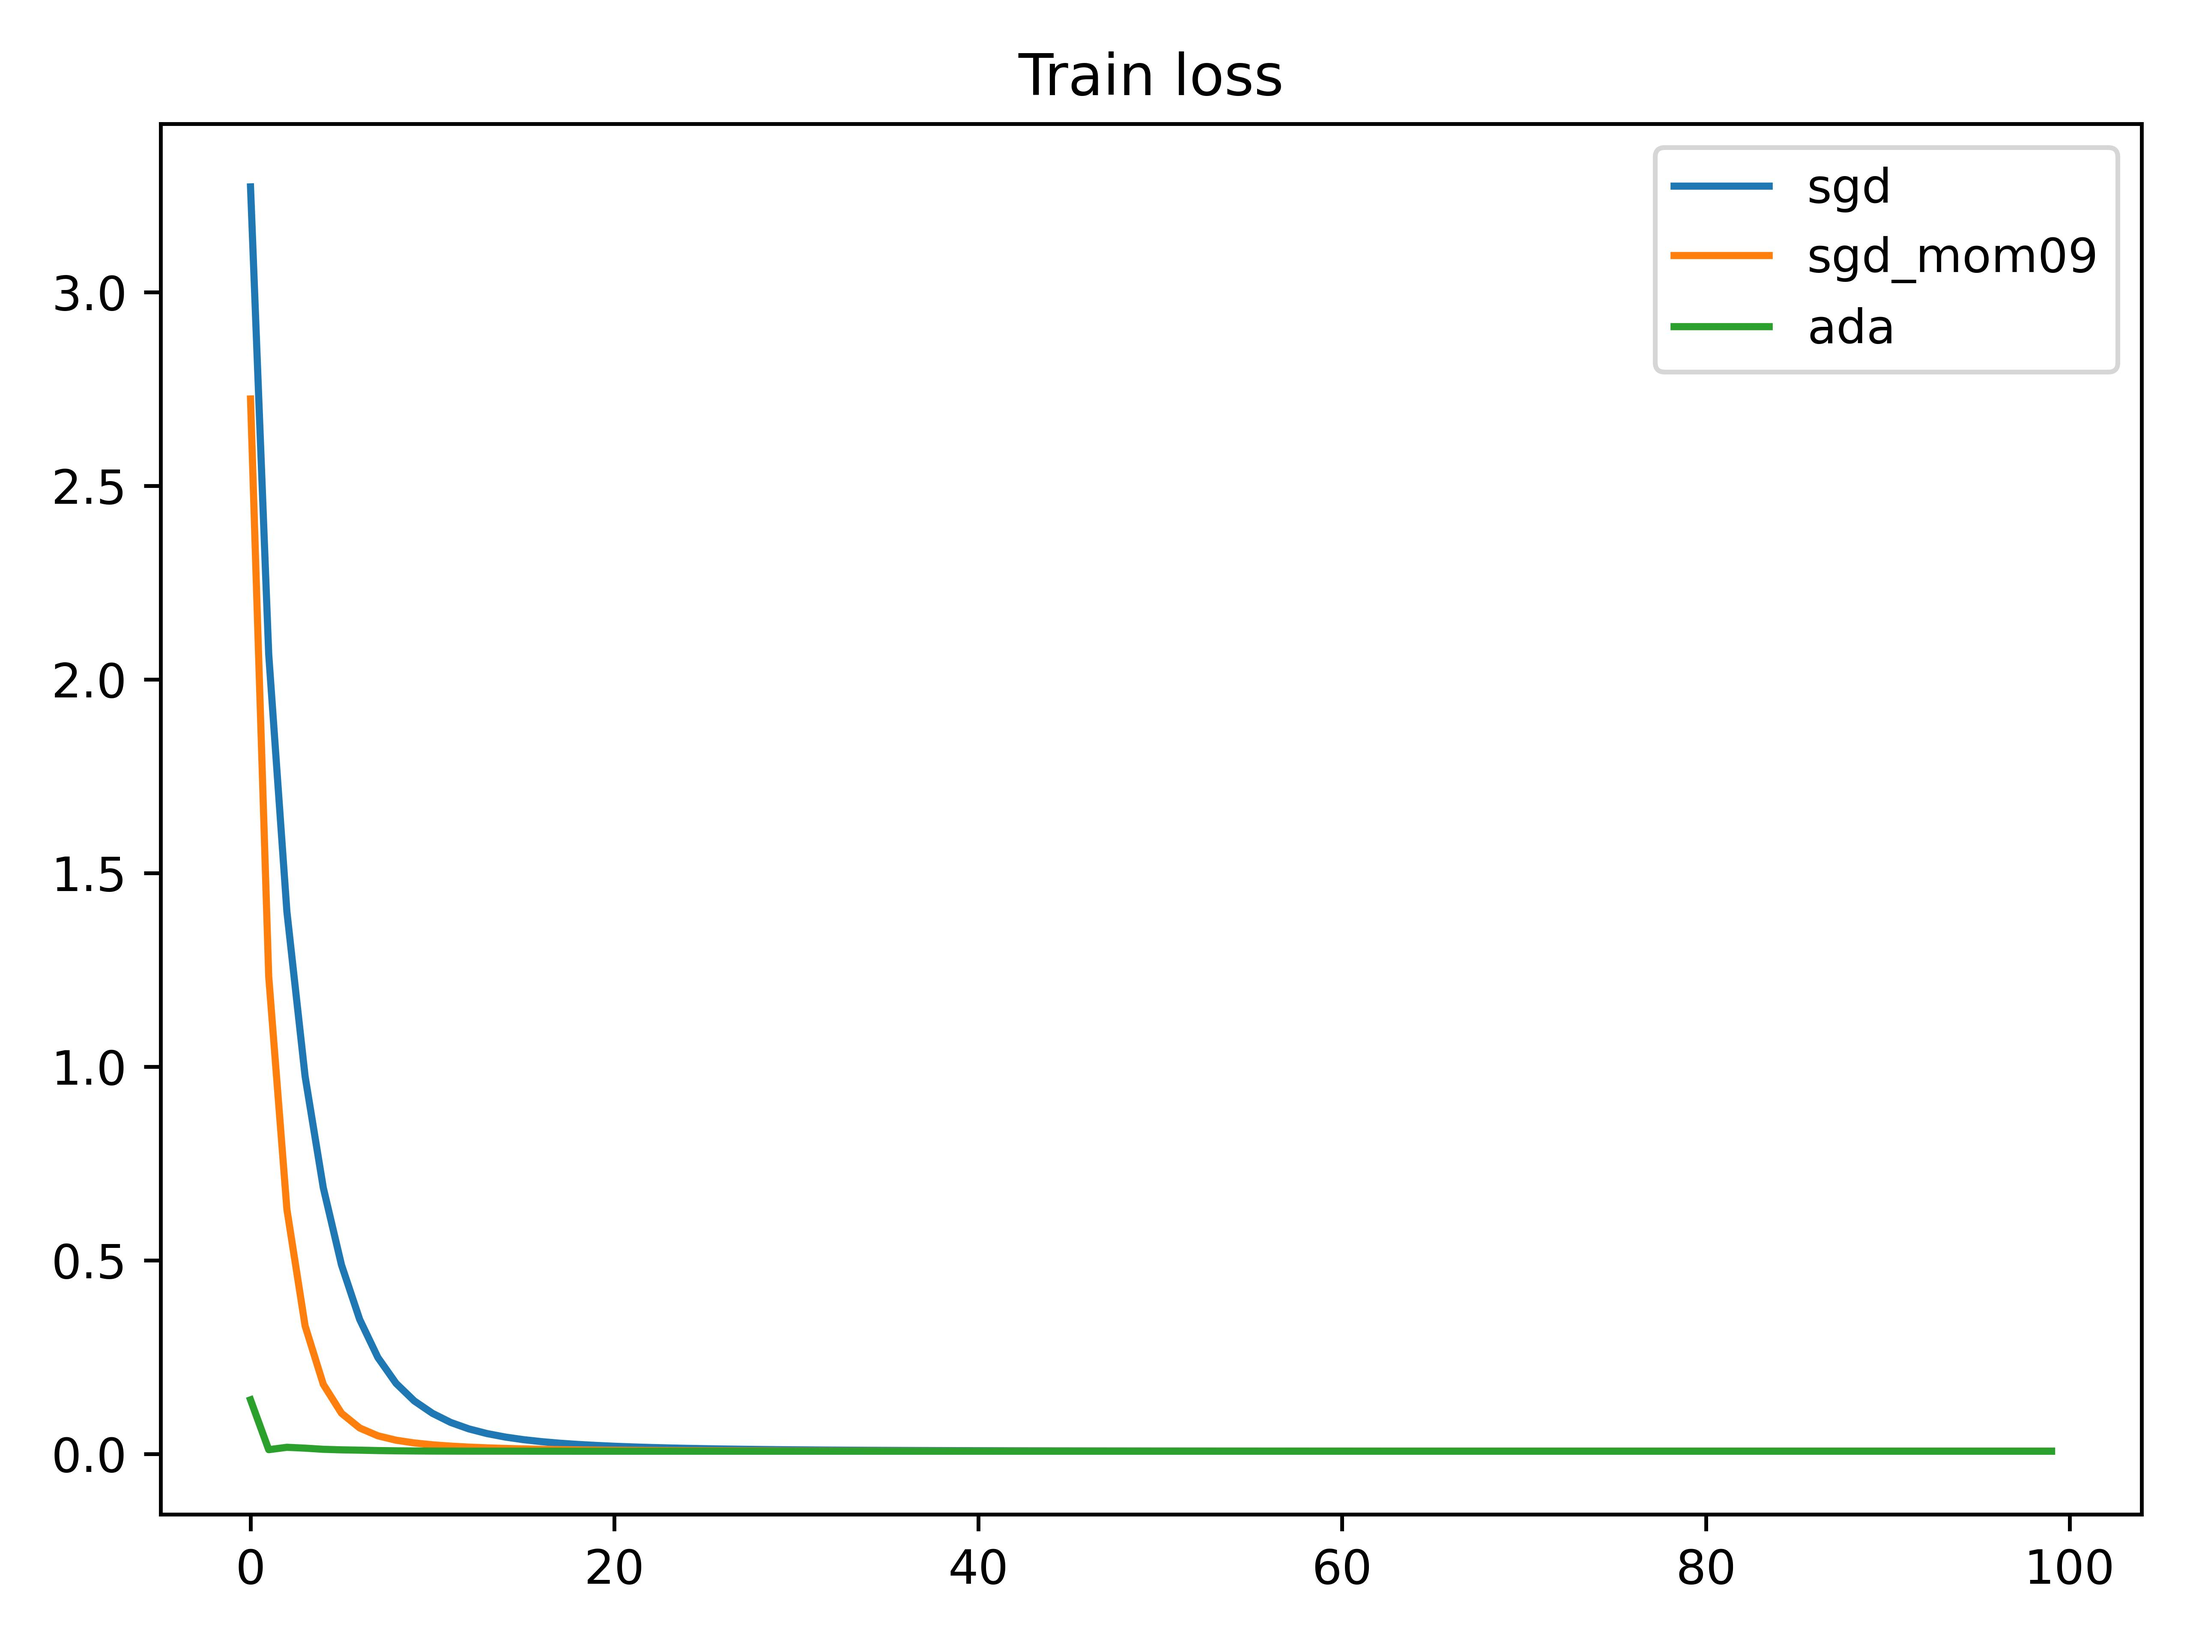
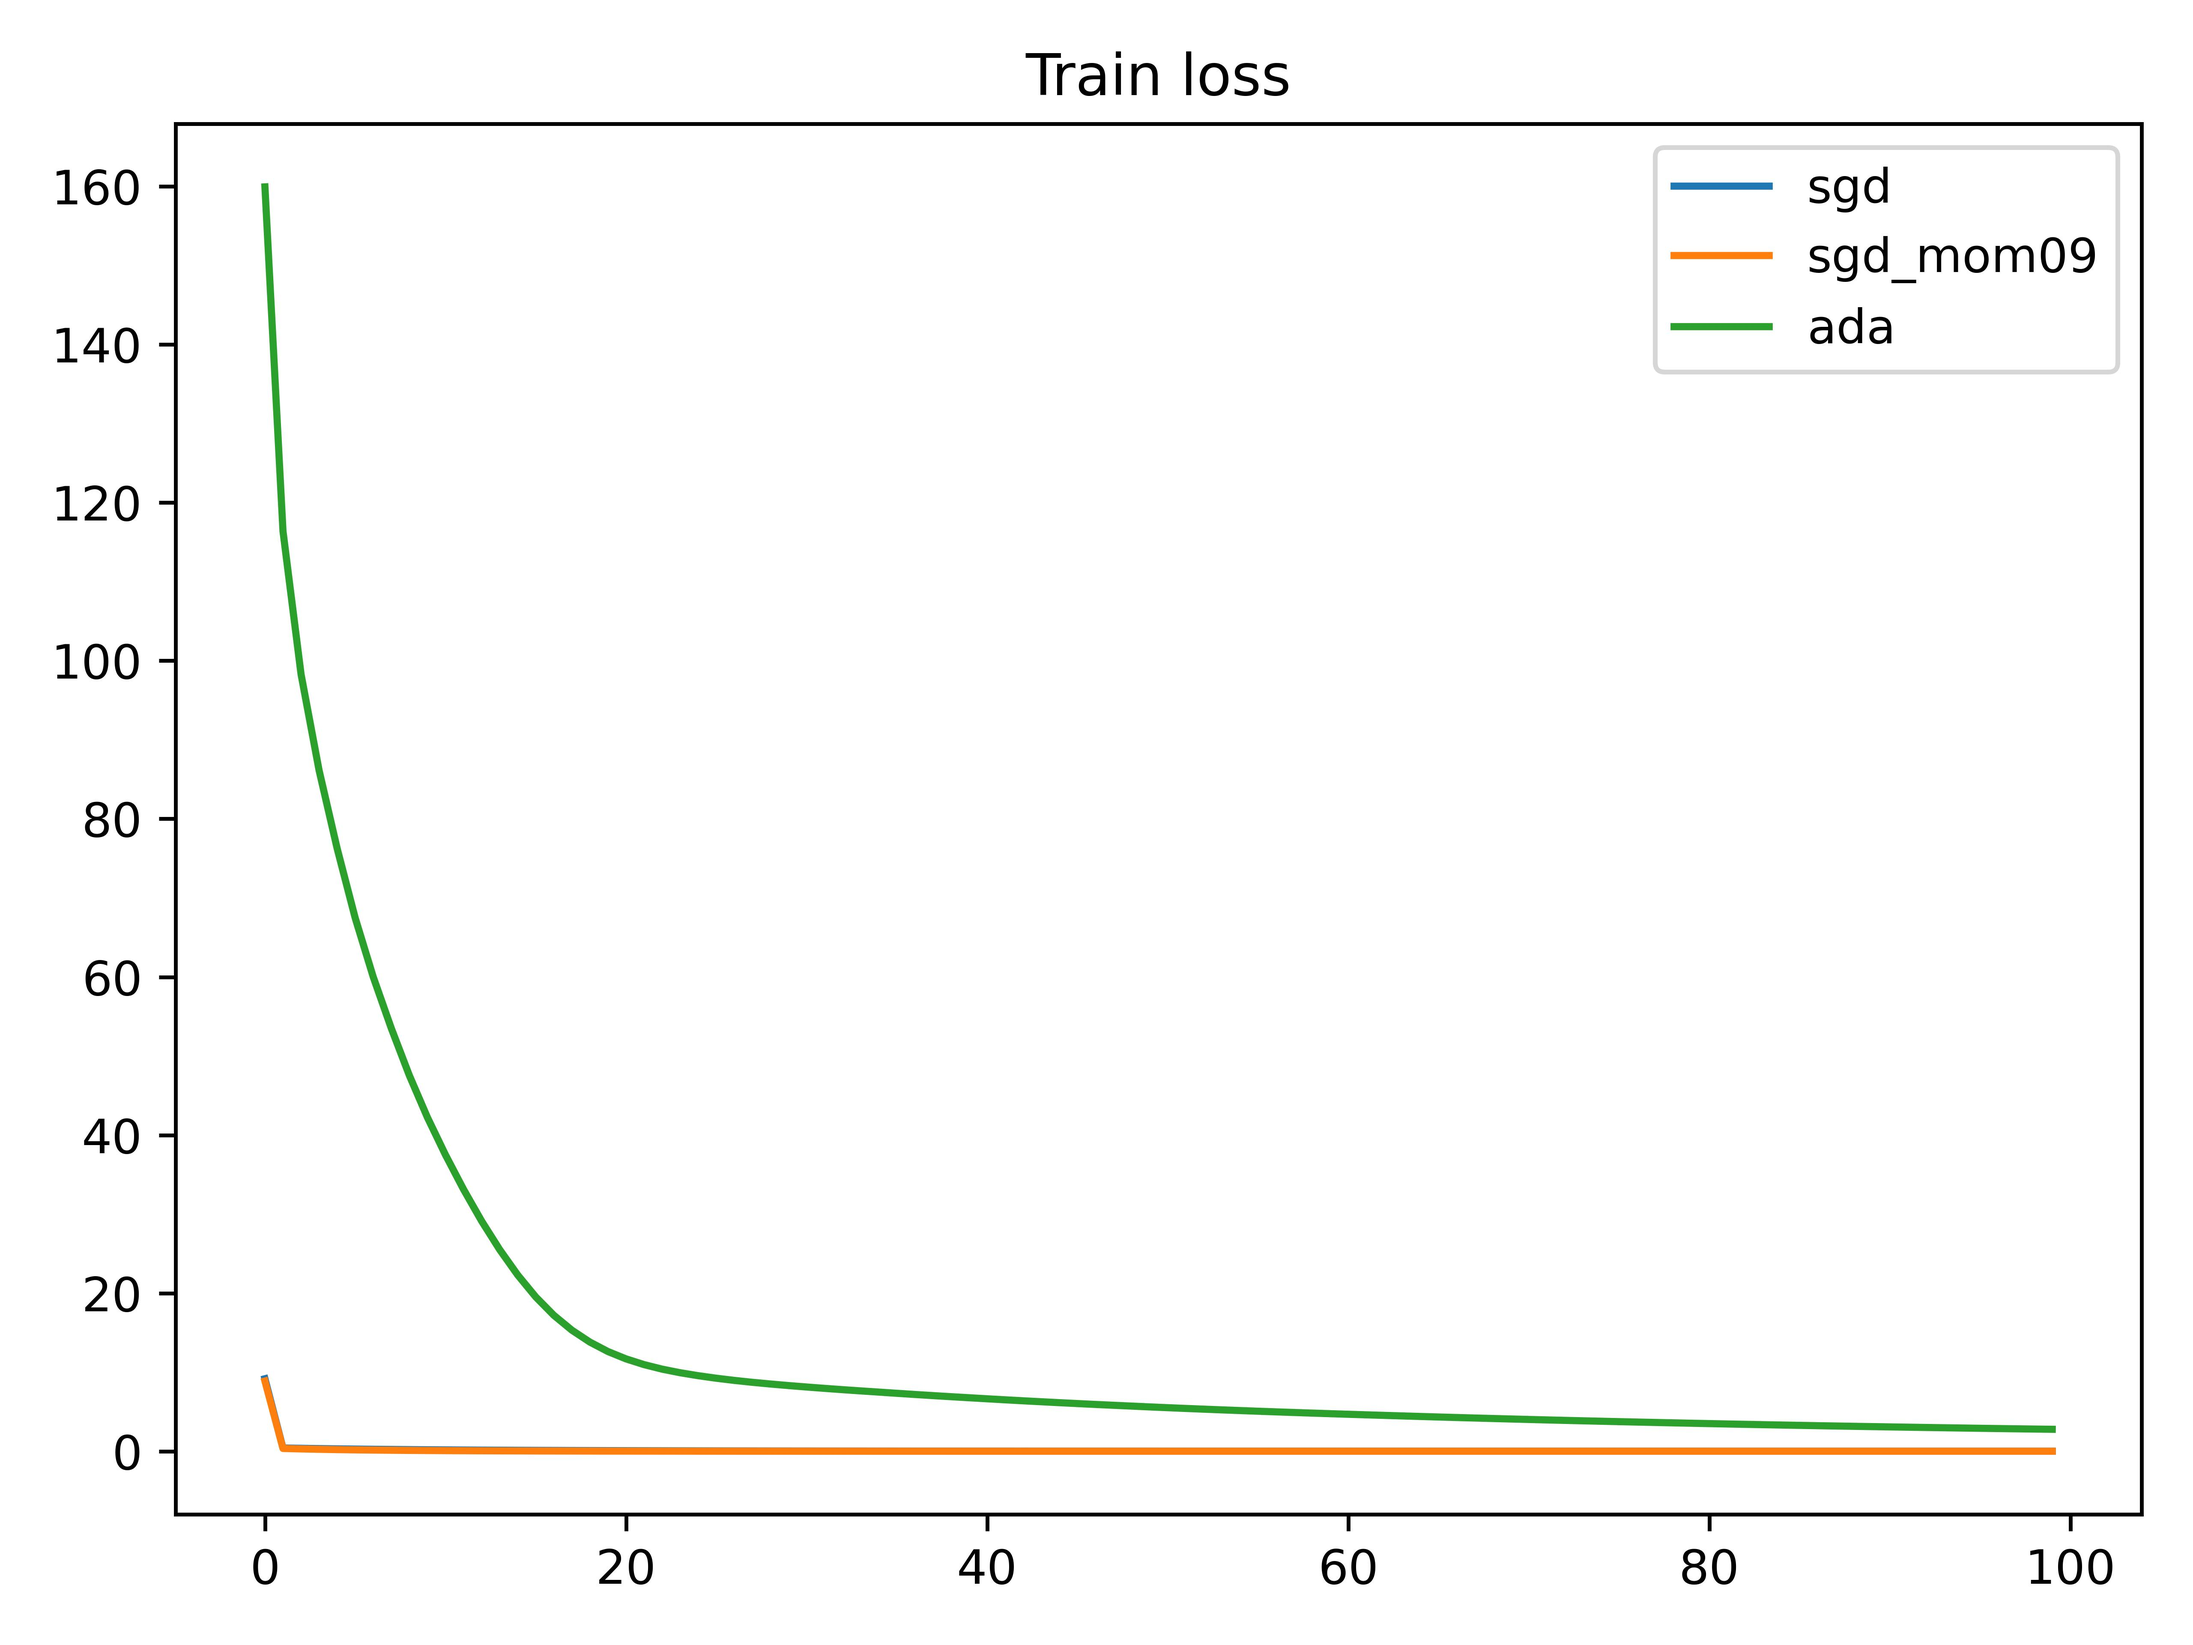
relu fail

diff --git a/Backpropagation/cmp_opt.py b/Backpropagation/cmp_opt.py
@@ -2,7 +2,7 @@ import numpy as np
 from tqdm import tqdm
 import copy
 import os
-from NN.Layers.Activation import tanh_activation
+from NN.Layers.Activation import tanh_activation, sigmoid_activation, ReLu_activation
 from NN.Layers.Linear import Linear
 from NN.Layers.Transform import BatchNormalization
 from NN.Loss.loss import _loss
@@ -30,7 +30,7 @@ class testNN(NNmodel):
             self.Sequence.append(Linear(in_dim=trans[i], out_dim=trans[i+1]))
             if i < len(trans)-2 :
                 self.Sequence.append(BatchNormalization())  
-                self.Sequence.append(tanh_activation())
+                self.Sequence.append(ReLu_activation())
 
 def loaddata(root:os.PathLike):
     
@@ -70,10 +70,12 @@ def train(
         for b in range(0,xtrain.shape[0], bsize):
             
             yhat = model.forward(x=xtrain[b:b+bsize, :])
+
             trainl += Loss(yhat=yhat, y=ytrain[b:b+bsize, :])/(xtrain.shape[0]/bsize)
 
             optimizer.backward(loss=Loss, batch_notation=True)
             optimizer.update()
+  
         
         trainLoss.append(trainl)
         
@@ -111,10 +113,12 @@ def Comparsion_different_optimizer(
     vallossses = []
     for opti, hypi, name in zip(cmp['optr'], cmp['hyp'], cmp['model_name']):
         print(name)
+        epochs = 100
         bmodel, trainloss, valloss = train(
             xtrain, ytrain, xval, yval,Model=model, 
             opt=opti, hyp=hypi, LossFunction=MSEloss,
             modelsavepath=os.path.join(modelsaveroot, name),
+            epochs=epochs
         )
         testLoss = test(xtest, ytest, bmodel, MSEloss)
         print(f"testing loss : {testLoss:.5f}")
@@ -129,18 +133,15 @@ def Comparsion_different_optimizer(
         l=vallossses, name=cmp['model_name'], title="val loss",
         saveto=os.path.join(resultsaveroot,"valloss.jpg")
     )
-
-
+ 
 if __name__ == "__main__":
 
     cmp_optr = {
-        'optr':[SGDopt, SGDopt, AdaGrad],
-        'hyp':[
-            {'lr':0.001, 'weight_decay':0.1},
+        'optr':[SGDopt, SGDopt,AdaGrad],
+        'hyp':[ {'lr':0.001, 'weight_decay':0.1},
             {'lr':0.001, 'momentum':0.9, 'weight_decay':0.1},
-            {'lr':0.15, 'weight_decay':0.1}
-        ],
-        'model_name':["sgd","sgd_mom09", "ada"]
+            {'lr':0.005, 'weight_decay':0.1}],
+        'model_name':[ "sgd","sgd_mom09" ,"ada"]
     }
 
     Comparsion_different_optimizer(

diff --git a/Backpropagation/NN/Layers/Activation.py b/Backpropagation/NN/Layers/Activation.py
@@ -1,8 +1,10 @@
 import numpy as np
+from scipy.special import expit
 import sys
 import os
 sys.path.append(os.path.dirname(__file__))
 from Layer import _Layer
+
 class tanh_activation(_Layer):
 
     def __init__(self) -> None:
@@ -17,3 +19,35 @@ class tanh_activation(_Layer):
     def _gradiant_func(self, x:np.ndarray)->np.ndarray:
         return (1.0-((np.tanh(x))**2))
     
+class sigmoid_activation(_Layer):
+
+    def __init__(self) -> None:
+        super().__init__()
+        self._type = "act"
+        self._name = "sigmoid"
+    
+    def _sigmoid_cal(self, x):
+        return 1.0/(1.0+expit(-x))
+
+    def  __call__(self, x:np.ndarray, require_grad=False, **kwargs) ->np.ndarray:
+        super().forward(x=x, require_grad=require_grad)
+        return self._sigmoid_cal(x)
+    
+    def _gradiant_func(self, x:np.ndarray)->np.ndarray:
+        return self._sigmoid_cal(x)*(1.0-self._sigmoid_cal(x))
+
+class ReLu_activation(_Layer):
+
+    def __init__(self) -> None:
+        super().__init__()
+        self._type = "act"
+        self._name = "relu"
+    
+
+    def  __call__(self, x:np.ndarray, require_grad=False, **kwargs) ->np.ndarray:
+        super().forward(x=x, require_grad=require_grad)
+        return np.maximum(0.0, x)
+    
+    def _gradiant_func(self, x:np.ndarray)->np.ndarray:
+        g =(x>0).astype(np.float32)
+        return g

diff --git a/Backpropagation/NN/Optimizer/Ada.py b/Backpropagation/NN/Optimizer/Ada.py
@@ -21,20 +21,21 @@ class AdaGrad(_optimizer):
         for li in range(len(self._model.Sequence)):
             
             if self._model.Sequence[li]._type == "Linear":
-                
+                thisupdate = None
                 if self._history == 0:
                     self._approx_2nderiv.append(
                         (self._model.Sequence[li].gradiant)**2
                     )
                     thisupdate = self._lr*(self._model.Sequence[li].gradiant)
                 else:
-                    thisupdate = self._lr/(
-                        self._approx_2nderiv[linear_idx]**0.5 + 1e-8
-                    )*(self._model.Sequence[li].gradiant)
+                    thisupdate = self._lr*(self._model.Sequence[li].gradiant)/(
+                        (self._approx_2nderiv[linear_idx]+ 1e-8)**0.5
+                    ) 
                     self._approx_2nderiv[linear_idx] += (self._model.Sequence[li].gradiant)**2
-                    
+                    linear_idx += 1
+                
                 self._model.Sequence[li]._weight -= thisupdate
-                linear_idx += 1
+                
 
         if self._history == 0:
             self._history = 1
